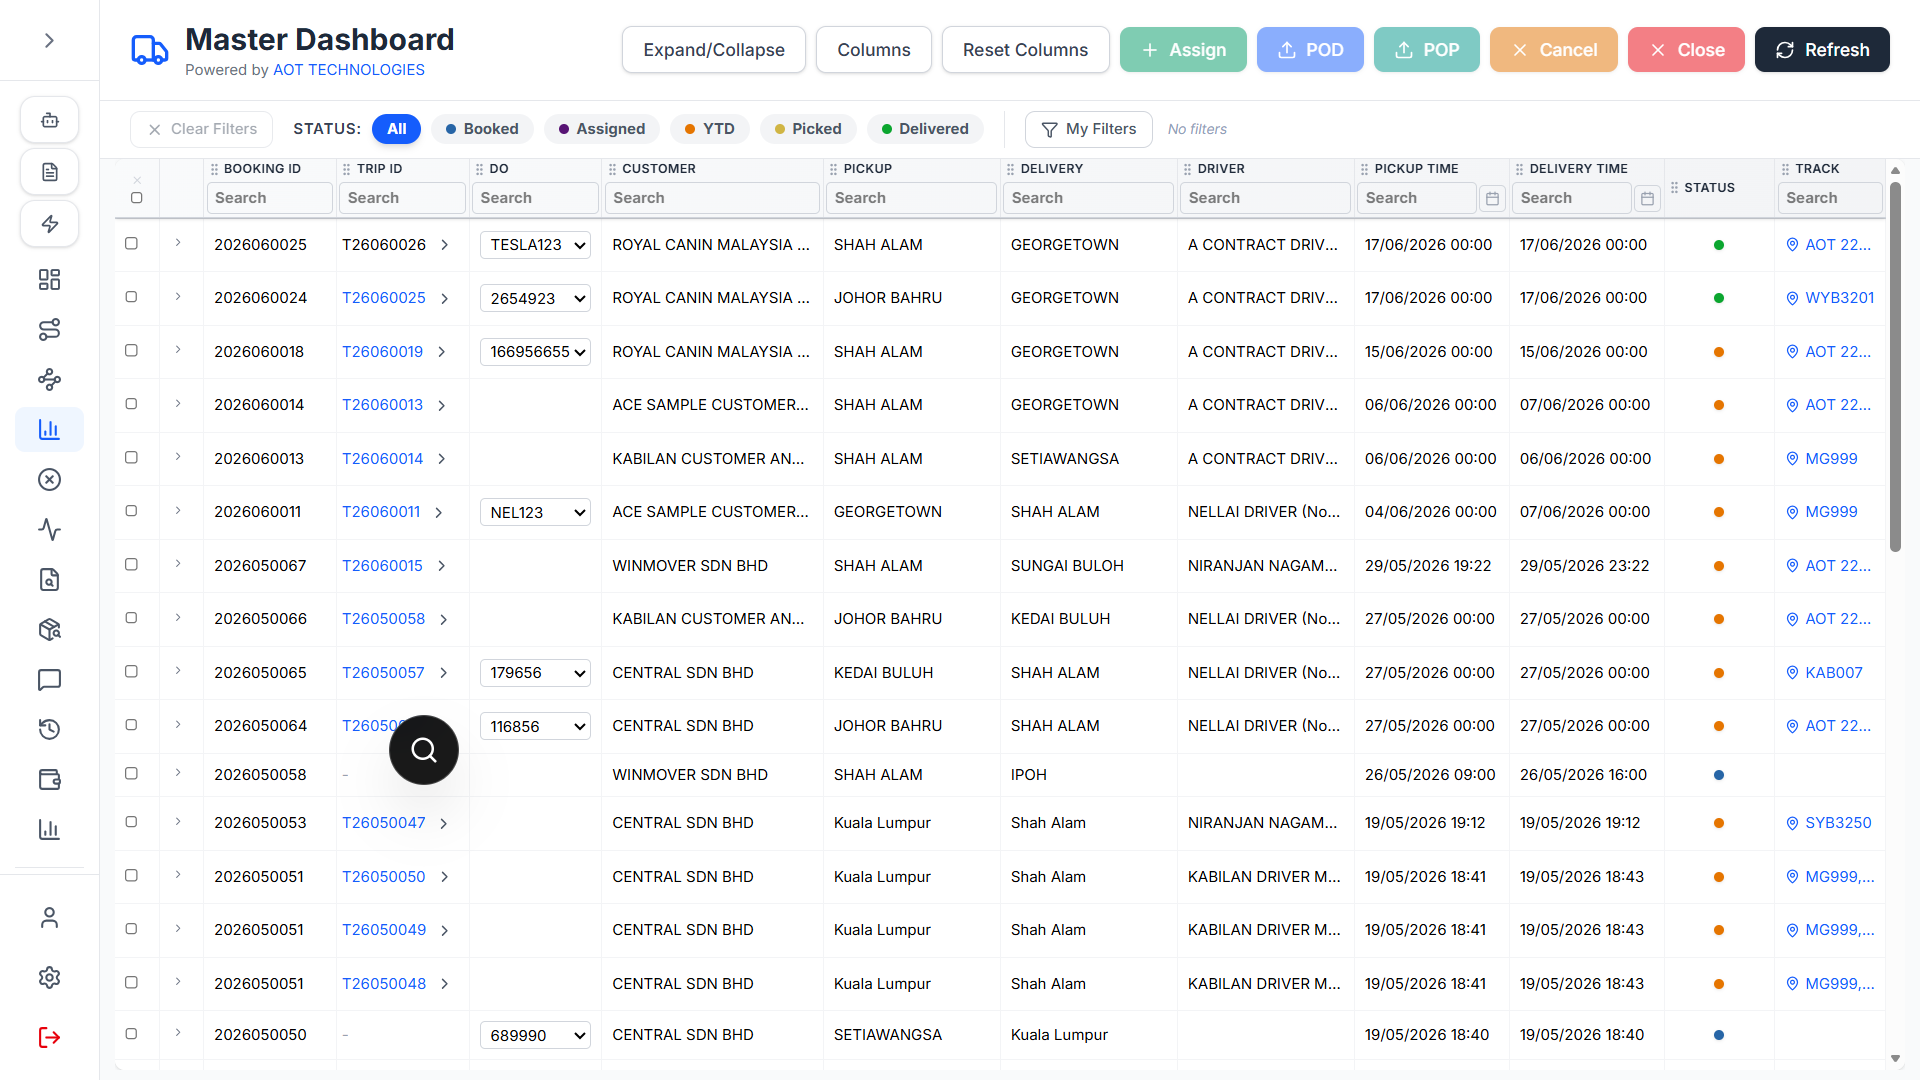
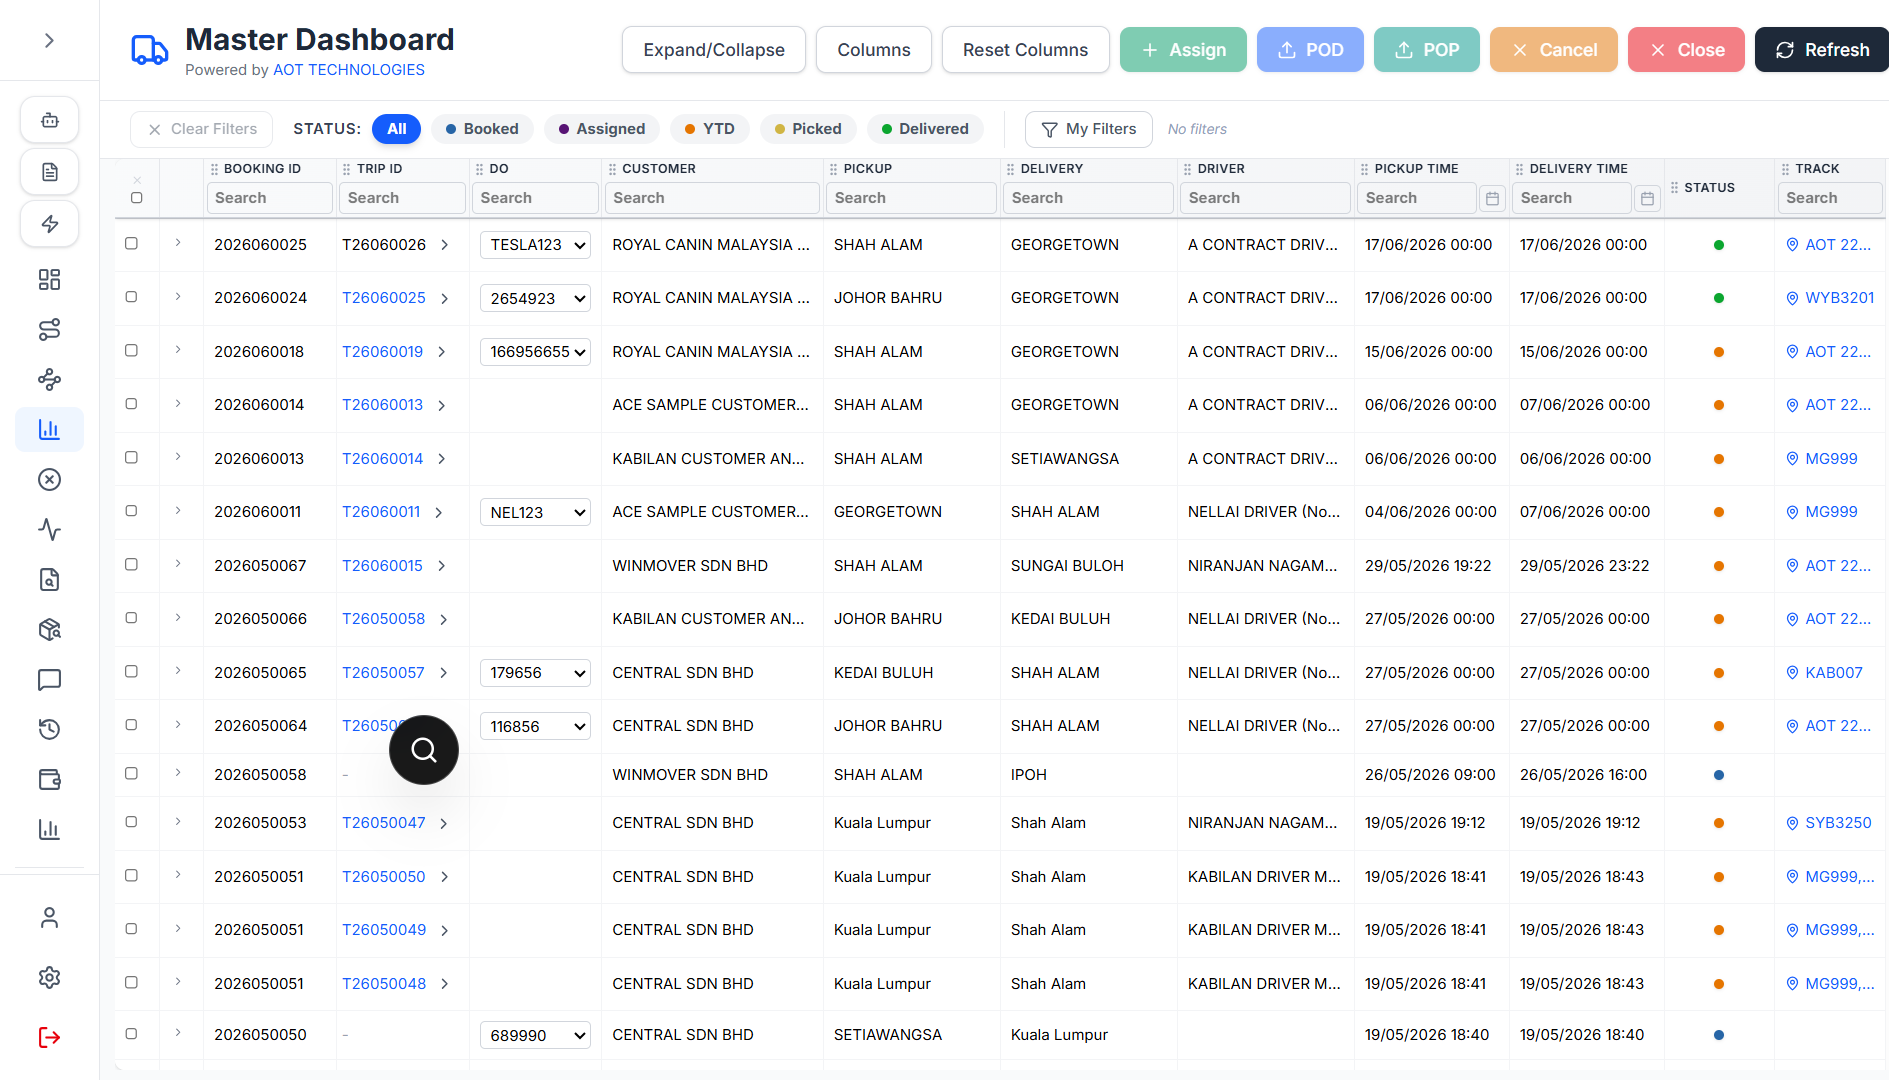
updated Fix guide requirements

diff --git a/web/src/components/sections/RoiCalculatorSection.tsx b/web/src/components/sections/RoiCalculatorSection.tsx
@@ -4,13 +4,13 @@ import { useMemo, useState } from "react";
 import type { HomepageContent } from "@/lib/content/schema";
 import { Button } from "@/components/ui/Button";
 import { RevealOnScroll } from "@/components/ui/RevealOnScroll";
-
+import emailjs from "@emailjs/browser";
 interface RoiCalculatorSectionProps {
   roiCalculator: HomepageContent["roiCalculator"];
 }
 
 export function RoiCalculatorSection({ roiCalculator }: RoiCalculatorSectionProps) {
-
+  const [loading, setLoading] = useState(false);
   const [fleetSize, setFleetSize] = useState(
     roiCalculator.fleetSizeDefault
   );
@@ -19,7 +19,8 @@ export function RoiCalculatorSection({ roiCalculator }: RoiCalculatorSectionProp
 
   const [name, setName] = useState("");
   const [email, setEmail] = useState("");
-
+  const [fuelSpend, setFuelSpend] = useState("");
+  const [manualHours, setManualHours] = useState("");
 
   const calculations = useMemo(
     () => ({
@@ -31,17 +32,40 @@ export function RoiCalculatorSection({ roiCalculator }: RoiCalculatorSectionProp
   );
 
 
-  const handleSubmit = (e: React.FormEvent) => {
+  const handleSubmit = async (e: React.FormEvent) => {
     e.preventDefault();
 
-    // here you can send email to backend
-    console.log({
-      name,
-      email,
-      fleetSize
-    });
+    setLoading(true);
 
-    setShowResult(true);
+    try {
+      await emailjs.send(
+        "service_p3hl8oh",
+        "template_gx1wsk9",
+        {
+          name,
+          email,
+          fleet_size: fleetSize,
+          fuel_spend: fuelSpend,
+          manual_admin_hours: manualHours,
+          estimated_fuel_savings: calculations.fuelSavings,
+          estimated_admin_hours_saved: calculations.adminHours,
+          estimated_collection_days: calculations.collectionDays,
+        },
+        "nkhrEtfX2u3Si0NyV"
+      );
+
+      setShowResult(true);
+
+      setName("");
+      setEmail("");
+      setFuelSpend("");
+      setManualHours("");
+    } catch (error) {
+      console.error("EmailJS Error:", error);
+      alert("Failed to submit.");
+    } finally {
+      setLoading(false);
+    }
   };
 
 
@@ -112,6 +136,8 @@ export function RoiCalculatorSection({ roiCalculator }: RoiCalculatorSectionProp
 
                 <input
                   type="number"
+                  value={fuelSpend}
+                  onChange={(e) => setFuelSpend(e.target.value)}
                   placeholder={roiCalculator.fuelSpendPlaceholder}
                   className="w-full rounded-md border border-[#C3C6D5] bg-white px-4 py-4 text-sm"
                 />
@@ -129,6 +155,8 @@ export function RoiCalculatorSection({ roiCalculator }: RoiCalculatorSectionProp
 
                 <input
                   type="number"
+                  value={manualHours}
+                  onChange={(e) => setManualHours(e.target.value)}
                   placeholder={roiCalculator.adminHoursPlaceholder}
                   className="w-full rounded-md border border-[#C3C6D5] bg-white px-4 py-4 text-sm"
                 />
@@ -218,11 +246,10 @@ export function RoiCalculatorSection({ roiCalculator }: RoiCalculatorSectionProp
 
                   <Button
                     type="submit"
+                    disabled={loading}
                     className="mt-2 w-full !rounded-md bg-[#00327D] text-white !text-base"
                   >
-
-                    Get Full Report
-
+                    {loading ? "Sending..." : "Get Full Report"}
                   </Button>
 
 

diff --git a/web/src/components/sections/PremiumHeroSlider.tsx b/web/src/components/sections/PremiumHeroSlider.tsx
@@ -28,7 +28,7 @@ const slides = [
         description:
             "Manage vehicles, drivers, fuel consumption, compliance, and fleet operations from a single platform.",
         image:
-            "/webpImages/dashboard.webp",
+            "/tcmsH1.png",
     },
     {
         id: 2,
@@ -37,7 +37,7 @@ const slides = [
         title: "Track Your Entire Fleet in Real Time",
         description: "Monitor vehicle locations, routes, driver activities, and operational performance from a centralized dashboard.",
         image:
-            "/webpImages/fleetHero.webp",
+            "/webpImages/dashboard.webp",
     },
     {
         id: 3,

diff --git a/web/src/components/modules/ModuleDashboardMockup.tsx b/web/src/components/modules/ModuleDashboardMockup.tsx
@@ -57,7 +57,7 @@ function OperationsDashboard() {
   ];
 
   return (
-    <div className="xl:h-[380px]">
+    <div className="">
       {/* <div className="mb-5 flex items-center justify-between">
         <div>
           <h3 className="text-lg font-semibold text-slate-900">Live Dispatch Board</h3>
